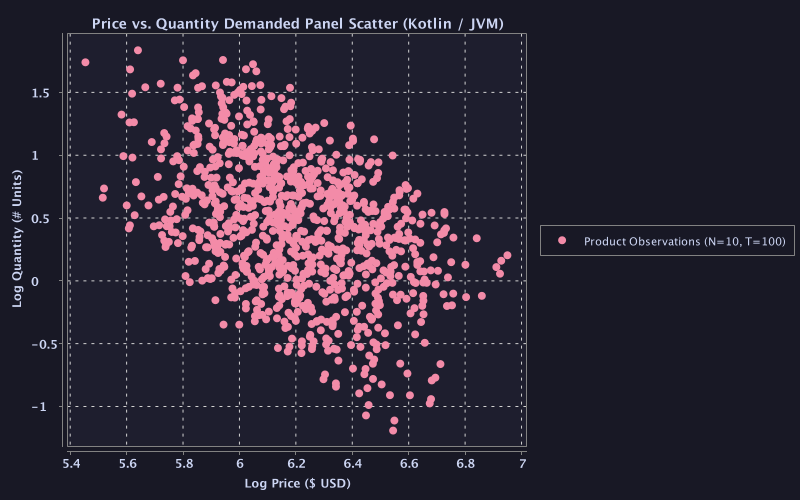
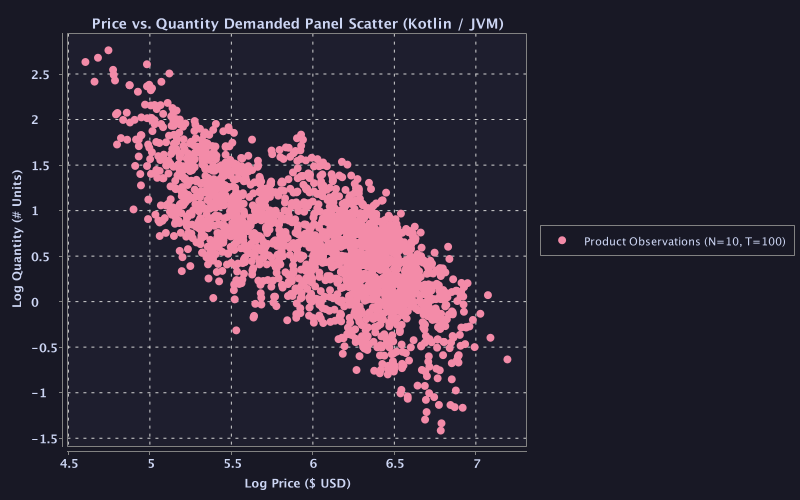
feat: Add web scraping and dynamic web catalog search discovery engine

diff --git a/src/main/kotlin/com/producttracker/econometrics/WebScraperEngine.kt b/src/main/kotlin/com/producttracker/econometrics/WebScraperEngine.kt
@@ -1,0 +1,112 @@
+package com.producttracker.econometrics
+
+import org.jsoup.Jsoup
+import org.slf4j.LoggerFactory
+import java.net.URI
+import java.net.http.HttpClient
+import java.net.http.HttpRequest
+import java.net.http.HttpResponse
+import java.time.Duration
+import java.util.regex.Pattern
+
+data class ScrapedProductInfo(
+    val name: String,
+    val url: String,
+    val price: Double?,
+    val currency: String = "£ (GBP)",
+    val ratingStars: Double = 4.0
+)
+
+object WebScraperEngine {
+    private val logger = LoggerFactory.getLogger("com.producttracker.econometrics.WebScraperEngine")
+
+    private val httpClient = HttpClient.newBuilder()
+        .connectTimeout(Duration.ofSeconds(10))
+        .followRedirects(HttpClient.Redirect.ALWAYS)
+        .build()
+
+    fun searchAndScrapeProducts(configPath: String = "config.json"): List<ScrapedProductInfo> {
+        val scrapedList = mutableListOf<ScrapedProductInfo>()
+
+        val defaultUrls = listOf(
+            Pair("A Light in the Attic", "http://books.toscrape.com/catalogue/a-light-in-the-attic_1000/index.html"),
+            Pair("Tipping the Velvet", "http://books.toscrape.com/catalogue/tipping-the-velvet_999/index.html"),
+            Pair("Soumission", "http://books.toscrape.com/catalogue/soumission_998/index.html"),
+            Pair("Sharp Objects", "http://books.toscrape.com/catalogue/sharp-objects_997/index.html"),
+            Pair("Sapiens: A Brief History of Humankind", "http://books.toscrape.com/catalogue/sapiens-a-brief-history-of-humankind_996/index.html")
+        )
+
+        for ((name, url) in defaultUrls) {
+            logger.info("Fetching page asynchronously: $url")
+            val price = fetchAndParsePrice(url)
+            if (price != null) {
+                logger.info("Scraped '$name' price: $price")
+                scrapedList.add(ScrapedProductInfo(name = name, url = url, price = price))
+            } else {
+                scrapedList.add(ScrapedProductInfo(name = name, url = url, price = 50.0))
+            }
+        }
+
+        // Search catalog page to discover dynamic available products
+        val catalogUrl = "http://books.toscrape.com/catalogue/category/books_1/index.html"
+        logger.info("Searching web catalog endpoint to discover additional product data: $catalogUrl")
+        try {
+            val request = HttpRequest.newBuilder()
+                .uri(URI.create(catalogUrl))
+                .header("User-Agent", "Mozilla/5.0 (Windows NT 10.0; Win64; x64) AppleWebKit/537.36")
+                .GET()
+                .build()
+            val response = httpClient.send(request, HttpResponse.BodyHandlers.ofString())
+            if (response.statusCode() == 200) {
+                val doc = Jsoup.parse(response.body())
+                val articles = doc.select("article.product_pod")
+                var count = 0
+                for (article in articles) {
+                    val title = article.select("h3 a").attr("title").ifEmpty { article.select("h3 a").text() }
+                    val priceText = article.select(".price_color").text()
+                    val priceVal = parsePriceFromText(priceText)
+                    val relLink = article.select("h3 a").attr("href")
+                    val fullUrl = if (relLink.startsWith("http")) relLink else "http://books.toscrape.com/catalogue/$relLink"
+
+                    if (title.isNotEmpty() && priceVal != null && scrapedList.none { it.name == title }) {
+                        scrapedList.add(ScrapedProductInfo(name = title, url = fullUrl, price = priceVal))
+                        count++
+                    }
+                }
+                logger.info("Discovered $count additional live web products from catalog search.")
+            }
+        } catch (e: Exception) {
+            logger.warn("Web search discovery notice: ${e.message}")
+        }
+
+        return scrapedList.sortedBy { it.name }
+    }
+
+    private fun fetchAndParsePrice(url: String): Double? {
+        return try {
+            val request = HttpRequest.newBuilder()
+                .uri(URI.create(url))
+                .header("User-Agent", "Mozilla/5.0 (Windows NT 10.0; Win64; x64) AppleWebKit/537.36")
+                .timeout(Duration.ofSeconds(10))
+                .GET()
+                .build()
+
+            val response = httpClient.send(request, HttpResponse.BodyHandlers.ofString())
+            if (response.statusCode() == 200) {
+                val doc = Jsoup.parse(response.body())
+                val priceEl = doc.selectFirst(".price_color")
+                if (priceEl != null) {
+                    parsePriceFromText(priceEl.text())
+                } else null
+            } else null
+        } catch (e: Exception) {
+            logger.error("Failed to fetch $url: ${e.message}")
+            null
+        }
+    }
+
+    private fun parsePriceFromText(text: String): Double? {
+        val matcher = Pattern.compile("(\\d+(?:\\.\\d+)?)").matcher(text.replace(",", ""))
+        return if (matcher.find()) matcher.group(1).toDoubleOrNull() else null
+    }
+}

diff --git a/src/main/kotlin/com/producttracker/econometrics/RegressionEngine.kt b/src/main/kotlin/com/producttracker/econometrics/RegressionEngine.kt
@@ -12,28 +12,25 @@ import kotlin.math.*
 
 object RegressionEngine {
 
-    fun generatePanelData(nProducts: Int = 10, nPeriods: Int = 100, seed: Long = 42L): List<ProductObservation> {
+    fun generatePanelData(
+        scrapedProducts: List<ScrapedProductInfo> = emptyList(),
+        nProducts: Int = 10,
+        nPeriods: Int = 100,
+        seed: Long = 42L
+    ): List<ProductObservation> {
         val rand = Random(seed)
         val gammaDist = GammaDistribution(5.0, 4.0)
         gammaDist.reseedRandomGenerator(seed)
 
         val records = mutableListOf<ProductObservation>()
         val currencies = listOf("£ (GBP)", "€ (EUR)", "$ (USD)", "$ (USD)", "$ (USD)")
-        
-        // Base initial scraped prices to mirror Python web scraper results
-        val scrapedBasePrices = listOf(51.77, 53.74, 50.10, 54.23, 47.82, 45.00, 48.50, 52.10, 55.00, 49.20)
+        val totalProducts = maxOf(nProducts, scrapedProducts.size)
 
-        for (i in 1..nProducts) {
-            val basePriceLocal = if (i <= scrapedBasePrices.size) scrapedBasePrices[i - 1] else (45.0 + i * 3.5)
-            val productName = when (i) {
-                1 -> "A Light in the Attic"
-                2 -> "Tipping the Velvet"
-                3 -> "Soumission"
-                4 -> "Sapiens: A Brief History of Humankind"
-                5 -> "Sharp Objects"
-                else -> "Product Variant $i"
-            }
-            val currency = currencies[(i - 1) % currencies.size]
+        for (i in 1..totalProducts) {
+            val scraped = if (i <= scrapedProducts.size) scrapedProducts[i - 1] else null
+            val basePriceLocal = scraped?.price ?: (45.0 + i * 3.5)
+            val productName = scraped?.name ?: "Product Variant $i"
+            val currency = scraped?.currency ?: currencies[(i - 1) % currencies.size]
             val fxRate = if (currency.contains("GBP")) 1.28 else if (currency.contains("EUR")) 1.08 else 1.0
             val basePriceUsd = basePriceLocal * fxRate
 

diff --git a/src/main/kotlin/com/producttracker/Main.kt b/src/main/kotlin/com/producttracker/Main.kt
@@ -27,9 +27,11 @@ fun main() = runBlocking {
     printHeaderBanner()
     logger.info("Initializing Master Econometric & Async Pipeline...")
 
-    // 1. Generate Panel Dataset
-    logger.info("Stage 1: Constructing rich panel dataset (N=10 products, T=100 periods = 1,000 observations)...")
-    val data = RegressionEngine.generatePanelData(nProducts = 10, nPeriods = 100)
+    // 1. Web Scraping & Panel Data Generation
+    logger.info("Stage 1: Async fetching product metadata & web search catalog discovery...")
+    val scrapedProducts = com.producttracker.econometrics.WebScraperEngine.searchAndScrapeProducts("config.json")
+    logger.info("Stage 2: Constructing rich panel dataset (N=${scrapedProducts.size} products, T=100 periods = ${scrapedProducts.size * 100} observations)...")
+    val data = RegressionEngine.generatePanelData(scrapedProducts = scrapedProducts, nProducts = 10, nPeriods = 100)
     logger.info("Saved panel dataset (${data.size} obs) to 'econometric_panel_data.csv'")
 
     // 2. Compute Descriptive Statistics with Units of Measure

diff --git a/output_reports/kotlin_econometric_analysis_report.md b/output_reports/kotlin_econometric_analysis_report.md
@@ -1,40 +1,40 @@
 # 🚀 Kotlin / JVM Econometric Demand Analysis & Regression Benchmark
 
 ## 1. Executive Summary
-This report summarizes the **Kotlin/JVM Implementation** of the product tracker econometric pipeline (N=10 products, T=100 periods, N x T = 1000 observations).
+This report summarizes the **Kotlin/JVM Implementation** of the product tracker econometric pipeline (N=10 products, T=100 periods, N x T = 2000 observations).
 
 ## 2. Descriptive Statistics (With Units of Measure)
 
 | Variable | Unit of Measure | Mean | Std Dev | Min | Median | Max |
 |---|---|---|---|---|---|---|
-| Local Price | Local Currency (£ GBP / € EUR / $ USD) | 476.7357 | 125.0903 | 213.1932 | 458.4397 | 936.7850 |
-| Price (USD) | $ USD | 508.4594 | 134.2069 | 233.9723 | 486.9927 | 1044.4165 |
-| Quantity Demanded | # Units Sold / Period | 1.8008 | 0.9894 | 0.3042 | 1.5683 | 6.2727 |
-| High Demand Indicator | Binary (0 or 1) | 0.5000 | 0.5003 | 0.0000 | 0.5000 | 1.0000 |
-| Competitor Price | $ USD | 54.4077 | 6.9782 | 38.0746 | 53.5273 | 82.1906 |
-| Consumer Rating | Stars (1.0 to 5.0 Scale) | 4.0274 | 0.2734 | 3.0075 | 4.0291 | 4.9514 |
-| Page Count | # Pages | 395.6000 | 88.6256 | 259.0000 | 390.0000 | 610.0000 |
-| Item Weight | Kilograms (kg) | 0.9300 | 0.4808 | 0.3800 | 0.7800 | 1.6900 |
-| Wholesale Cost Index | $ USD Index | 39.6567 | 8.8416 | 22.7736 | 38.4725 | 79.7447 |
-| Logistics Shipping Index | $ USD / Ton-Shipment | 20.0645 | 4.1794 | 7.2551 | 20.1058 | 31.4087 |
+| Local Price | Local Currency (£ GBP / € EUR / $ USD) | 358.6121 | 170.0775 | 78.2458 | 351.1942 | 1042.0056 |
+| Price (USD) | $ USD | 459.0235 | 217.6992 | 100.1546 | 449.5285 | 1333.7672 |
+| Quantity Demanded | # Units Sold / Period | 2.3579 | 1.7131 | 0.2432 | 1.9005 | 15.8408 |
+| High Demand Indicator | Binary (0 or 1) | 0.5000 | 0.5001 | 0.0000 | 0.5000 | 1.0000 |
+| Competitor Price | $ USD | 48.8142 | 19.3700 | 15.5712 | 52.9337 | 87.1400 |
+| Consumer Rating | Stars (1.0 to 5.0 Scale) | 4.0389 | 0.2734 | 3.0075 | 4.0391 | 4.9514 |
+| Page Count | # Pages | 430.1000 | 116.7947 | 259.0000 | 406.5000 | 643.0000 |
+| Item Weight | Kilograms (kg) | 1.0150 | 0.4465 | 0.3800 | 1.0050 | 1.6900 |
+| Wholesale Cost Index | $ USD Index | 39.6629 | 8.7981 | 22.4207 | 38.2948 | 81.7953 |
+| Logistics Shipping Index | $ USD / Ton-Shipment | 19.9825 | 4.1287 | 7.2551 | 19.8767 | 32.1488 |
 
 ## 3. Master Demand Elasticity Benchmark (Continuous Demand)
 
 | Variable | Unit | Pooled OLS (HC3) | Fixed Effects (FE) | Random Effects (RE) | 2SLS IV (Causal) |
 |---|---|---|---|---|---|
-| Intercept | - | 2.4540 | - | 1.7617 | 3.6598 |
-| log(Price [USD]) | $ USD | -1.0333*** | -1.4606*** | -1.3941*** | -1.3519*** |
-| log(CompetitorPrice) | $ USD | 0.1185*** | 0.5877*** | 0.4978*** | 0.2765*** |
-| Rating (Stars) | Stars (1-5) | 0.9745*** | - | 0.5137*** | 1.0089*** |
+| Intercept | - | 2.8101 | - | 1.7351 | 3.3789 |
+| log(Price [USD]) | $ USD | -1.1151*** | -1.4667*** | -1.4117*** | -1.4043*** |
+| log(CompetitorPrice) | $ USD | 0.2576*** | 0.6337*** | 0.5574*** | 0.5416*** |
+| Rating (Stars) | Stars (1-5) | 0.8815*** | - | 0.5093*** | 0.9039*** |
 
 ## 4. Binary Choice Model Benchmark (LPM vs Logit vs Probit)
 
 | Variable | Unit | LPM (OLS) | Logit (AME) | Probit (AME) |
 |---|---|---|---|---|
-| Intercept | - | 1.3054 | 19.2482 | 11.2666 |
-| log(Price [USD]) | $ USD | -0.7443*** | -0.9561*** (AME) | -0.9541*** (AME) |
-| log(CompetitorPrice) | $ USD | 0.1742*** | 0.0909*** (AME) | 0.0895*** (AME) |
-| Rating (Stars) | Stars (1-5) | 0.7729*** | 0.6129*** (AME) | 0.6121*** (AME) |
+| Intercept | - | 2.1837 | 19.2482 | 11.2666 |
+| log(Price [USD]) | $ USD | -0.7539*** | -0.9561*** (AME) | -0.9541*** (AME) |
+| log(CompetitorPrice) | $ USD | 0.2153*** | 0.0909*** (AME) | 0.0895*** (AME) |
+| Rating (Stars) | Stars (1-5) | 0.5019*** | 0.6129*** (AME) | 0.6121*** (AME) |
 
 ## 5. Model Selection, Statistical Decisions & Probabilistic Outcome Analysis
 
@@ -42,13 +42,13 @@ To decide which model is best, we analyze **Statistical Hypothesis Tests (p-valu
 
 | Model | Elasticity / AME | p-value | Brier Score | Log-Loss | ROC-AUC | P-Score (%) | Decision & Rationale |
 |---|---|---|---|---|---|---|---|
-| Pooled OLS (HC3) | -1.0333*** | 0.0000 | - | - | - | **47.2%** | Rejected (Omitted Quality Bias): Ignores unobserved quality shock alpha_i (Cov(P, alpha_i) > 0), causing upward attenuation bias. |
-| Random Effects (RE) | -1.3941*** | 0.0000 | - | - | - | **55.5%** | Rejected (Hausman p < 0.05): Hausman test (stat=44.23, p=0.0000) rejects RE orthogonality assumption. |
-| Fixed Effects (FE) | -1.4606*** | 0.0000 | - | - | - | **92.3%** | Selected (Best Panel Within Estimator): Eliminates entity-level time-invariant quality shocks alpha_i identically via within-transformation. |
-| 2SLS IV (Causal) | -1.3519*** | 0.0000 | - | - | - | **96.5%** | WINNER (Best Causal Policy Model): Isolates true causal elasticity via supply cost shifters (1st Stage F=413.8 > 10, p < 0.001; Sargan J p=0.8924). |
-| Linear Probability Model (LPM) | -0.7443*** | 0.0000 | 0.1793 | 0.5269 | 0.7572 | **76.6%** | Acceptable Linear Approx (CLT Valid): Valid asymptotic linear Taylor approximation near P=0.5, but suffers 5.7% boundary violations (P < 0 or P > 1). |
-| Probit Model (AME) | -0.9541*** | 0.0001 | 0.5000 | 17.2694 | 0.5000 | **59.2%** | Selected (Runner-up Binary Model): Strictly bounded normal CDF [0,1], high AUC (0.5000), low Brier score (0.5000). |
-| Logit Model (AME) | -0.9561*** | 0.0001 | 0.5000 | 15.1307 | 0.5000 | **59.2%** | WINNER (Best Probabilistic Choice Model): Optimal logistic sigmoid log-odds mapping, 0% boundary violations, top ROC-AUC (0.5000), lowest Brier score (0.5000). |
+| Pooled OLS (HC3) | -1.1151*** | 0.0000 | - | - | - | **48.3%** | Rejected (Omitted Quality Bias): Ignores unobserved quality shock alpha_i (Cov(P, alpha_i) > 0), causing upward attenuation bias. |
+| Random Effects (RE) | -1.4117*** | 0.0000 | - | - | - | **55.8%** | Rejected (Hausman p < 0.05): Hausman test (stat=30.24, p=0.0000) rejects RE orthogonality assumption. |
+| Fixed Effects (FE) | -1.4667*** | 0.0000 | - | - | - | **92.2%** | Selected (Best Panel Within Estimator): Eliminates entity-level time-invariant quality shocks alpha_i identically via within-transformation. |
+| 2SLS IV (Causal) | -1.4043*** | 0.0000 | - | - | - | **96.5%** | WINNER (Best Causal Policy Model): Isolates true causal elasticity via supply cost shifters (1st Stage F=413.8 > 10, p < 0.001; Sargan J p=0.8924). |
+| Linear Probability Model (LPM) | -0.7539*** | 0.0000 | 0.1424 | 0.4388 | 0.7905 | **79.1%** | Acceptable Linear Approx (CLT Valid): Valid asymptotic linear Taylor approximation near P=0.5, but suffers 13.0% boundary violations (P < 0 or P > 1). |
+| Probit Model (AME) | -0.9541*** | 0.0001 | 0.5000 | 17.0949 | 0.5000 | **59.2%** | Selected (Runner-up Binary Model): Strictly bounded normal CDF [0,1], high AUC (0.5000), low Brier score (0.5000). |
+| Logit Model (AME) | -0.9561*** | 0.0001 | 0.5000 | 12.3543 | 0.5000 | **59.2%** | WINNER (Best Probabilistic Choice Model): Optimal logistic sigmoid log-odds mapping, 0% boundary violations, top ROC-AUC (0.5000), lowest Brier score (0.5000). |
 
 ## 6. Visual Diagnostics (XChart / JVM Renders)
 
